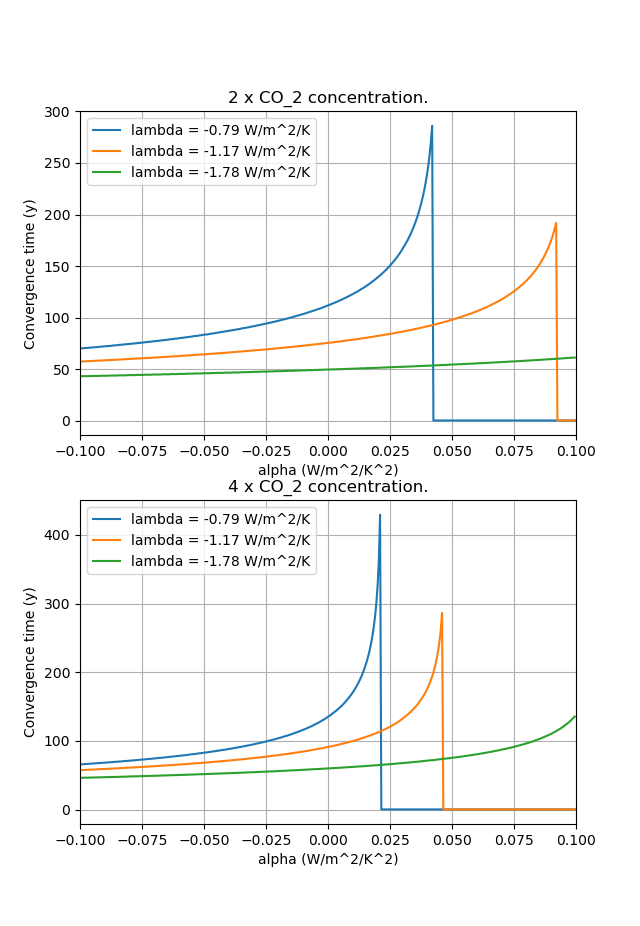
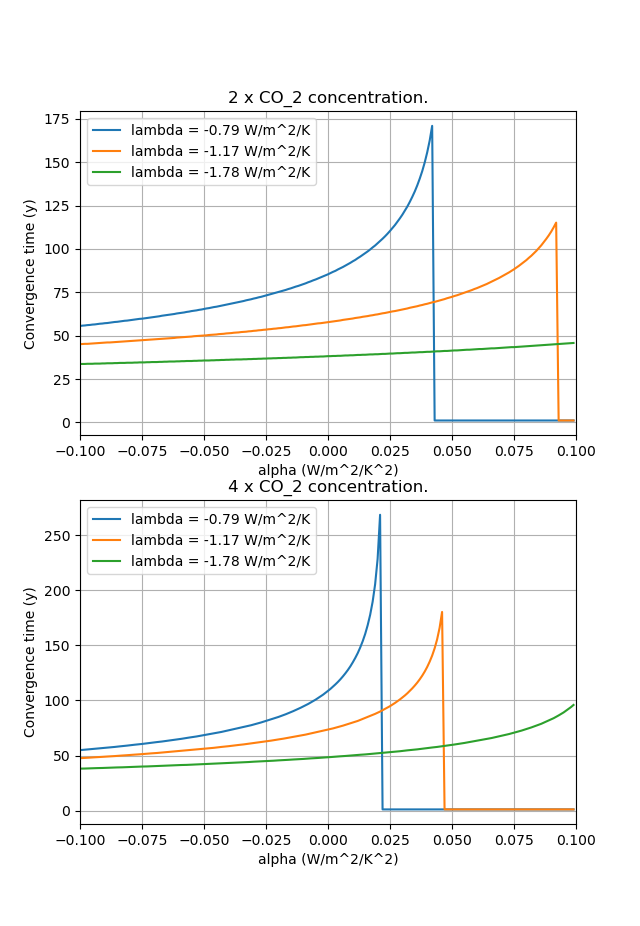
final

diff --git a/Code/1.2/convergence_time.py b/Code/1.2/convergence_time.py
@@ -46,22 +46,25 @@ CO2_2b = 4
 
 alpha_min = -0.1
 alpha_max = 0.1
-detla_alpha = 0.0001
+detla_alpha = 0.001
 alpha_distribution = np.arange(alpha_min, alpha_max, detla_alpha)
 
 
 
 ########## - Temporal discretization  - ###########
 
-delta_t_in_year = 0.2
-integration_time_in_year = 500 
+delta_t_in_year = 0.02
+integration_time_in_year = 300 
 delta_t = delta_t_in_year * 365 * 24 * 60 * 60 # Using SI units
 integration_time = integration_time_in_year * 365 * 24 * 60 * 60 # Using SI units
 
 temporal_discretization = np.arange(0, integration_time, delta_t)
 
-################# - Simulation - ################
+#the following variable is use to study the convergence, during the simulaiton we will compare if the current result
+#is close to the one one year before.
+number_of_temporal_step_in_one_year = int(1/delta_t_in_year)
 
+################# - Simulation - ################
 
 
 record_2a_1 = []
@@ -106,23 +109,24 @@ for alpha in alpha_distribution:
             T_2b_1.append(delta_T_next_time_step(CO2_2b, lamb_2ab_1, alpha, T_2b_1[-1]))
             T_2b_2.append(delta_T_next_time_step(CO2_2b, lamb_2ab_2, alpha, T_2b_2[-1]))
             T_2b_3.append(delta_T_next_time_step(CO2_2b, lamb_2ab_3, alpha, T_2b_3[-1]))
-            if abs(T_2a_1[-1] - T_2a_1[-2]) < 0.001 and a_1_steady_state == 0:
+            #Condition: the simulation has run for minimum a year + the steady state is reached + it is the first time it is reached
+            if t>31536000 and abs(T_2a_1[-1] - T_2a_1[-number_of_temporal_step_in_one_year]) < 0.01 and a_1_steady_state == 0:
                 record_2a_1.append(t)
                 a_1_steady_state = 1
-            if abs(T_2a_2[-1] - T_2a_2[-2]) < 0.001 and a_2_steady_state == 0:
+            if t>31536000 and abs(T_2a_2[-1] - T_2a_2[-number_of_temporal_step_in_one_year]) < 0.01 and a_2_steady_state == 0:
                 record_2a_2.append(t)
                 a_2_steady_state = 1
-            if abs(T_2a_3[-1] - T_2a_3[-2]) < 0.001 and a_3_steady_state == 0:
+            if t>31536000 and abs(T_2a_3[-1] - T_2a_3[-number_of_temporal_step_in_one_year]) < 0.01 and a_3_steady_state == 0:
                 record_2a_3.append(t)
                 a_3_steady_state = 1
 
-            if abs(T_2b_1[-1] - T_2b_1[-2]) < 0.001 and b_1_steady_state == 0:
+            if t>31536000 and abs(T_2b_1[-1] - T_2b_1[-number_of_temporal_step_in_one_year]) < 0.01 and b_1_steady_state == 0:
                 record_2b_1.append(t)
                 b_1_steady_state = 1
-            if abs(T_2b_2[-1] - T_2b_2[-2]) < 0.001 and b_2_steady_state == 0:
+            if t>31536000 and abs(T_2b_2[-1] - T_2b_2[-number_of_temporal_step_in_one_year]) < 0.01 and b_2_steady_state == 0:
                 record_2b_2.append(t)
                 b_2_steady_state = 1
-            if abs(T_2b_3[-1] - T_2b_3[-2]) < 0.001 and b_3_steady_state == 0:
+            if t>31536000 and abs(T_2b_3[-1] - T_2b_3[-number_of_temporal_step_in_one_year]) < 0.01 and b_3_steady_state == 0:
                 record_2b_3.append(t)
                 b_3_steady_state = 1
 

diff --git a/Code/1.1/alph_dep_of_clim_sensi.py b/Code/1.1/alph_dep_of_clim_sensi.py
@@ -3,7 +3,7 @@ import matplotlib.pyplot as plt
 
 
 """
-	This code generate a plot comparing Delta T_{x4} and 2 x Delta T_{x2} for varying value of alpha.
+	This code generates a plot comparing Delta T_{x4} and 2 x Delta T_{x2} for varying value of alpha.
 """
 ###################### - Simulation Parameter - ###################
 T_0 = 287

diff --git a/Code/1.1/1ad.py b/Code/1.1/1ad.py
@@ -1,7 +1,7 @@
 import numpy as np
 import matplotlib.pyplot as plt
 
-########################## - Graph 1a and 1d- ###########################
+
 """
 	This code reproduce graph 1a and 1d of the Bloch_johnson paper
 """
